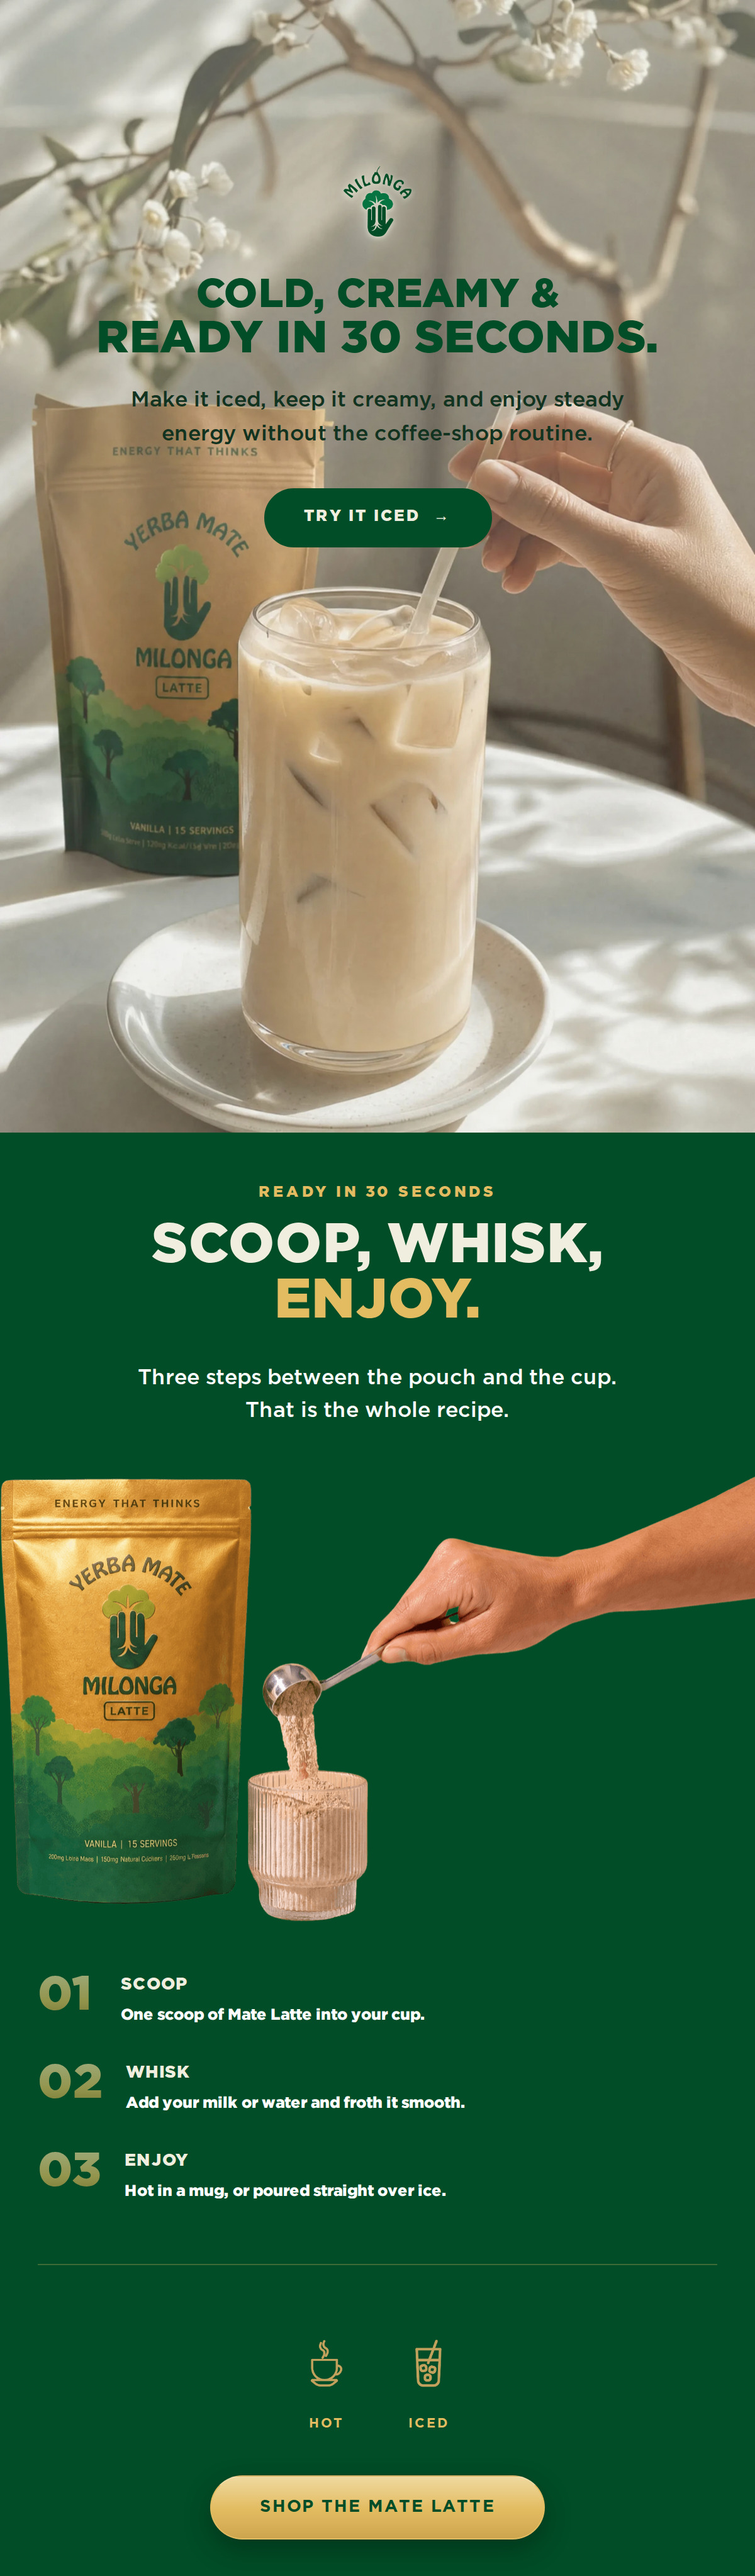
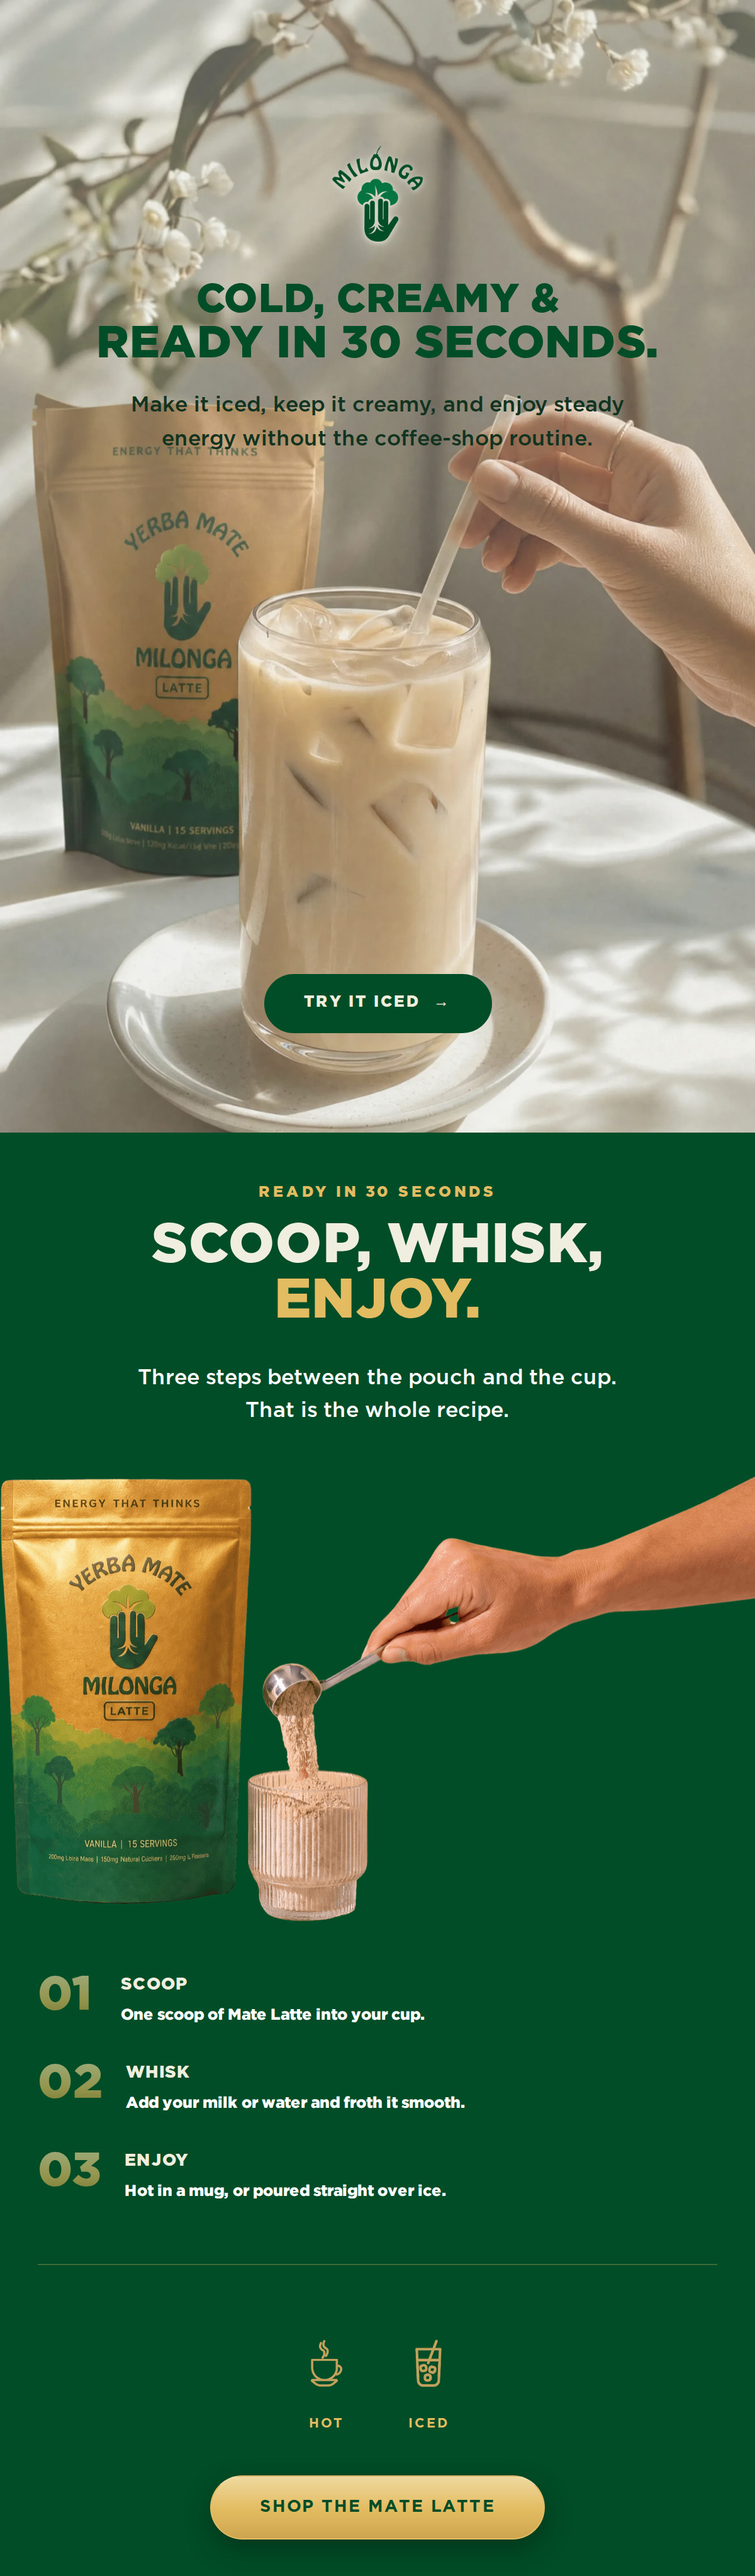
email: how-to-make-it, bigger mark, pinned button, split in two
The wordmark goes to 76 — the size the full-image opener uses, and the point
below which a mark on a photograph reads as a watermark rather than as the
brand signing the email. The title and its line move up 16 units with it.

The button is pinned at 86% instead of sitting inline. That is how this
pattern is meant to work: the mark and the words are one thing to read at the
head, the button is the one thing to do at the foot, and the photograph fills
the gap. A single clump in the middle wastes the frame.

Exported as two images, cut at y=1800 — the colour edge where the photograph
ends and the forest band begins, not at a flat row found by searching. When
an email has a hard colour boundary that boundary IS the seam: each image
then carries one flat background at its edge and the join cannot show.
Measured across the cut, row 1798 is (168,162,146) and row 1800 is (0,77,39).

Claude-Session: https://claude.ai/code/session_01NhEtXPnfeCJfN73SqBkUZ5

Changed region(s): [[0.1233, 0.062, 0.8633, 0.2171], [0.3392, 0.3723, 0.6475, 0.4033]]

diff --git a/email-ds/emails/how-to-make-it.jsx b/email-ds/emails/how-to-make-it.jsx
@@ -32,8 +32,11 @@ function HowToMakeIt() {
       alt: 'Cold, creamy and ready in 30 seconds. A tall glass of iced Milonga Mate Latte on a table in morning light, a hand stirring it with a straw, the vanilla Mate Latte pouch behind it and a branch of white blossom above. Try it iced.',
       logo: true,
       logoTone: 'green',
-      logoHeight: 56,
-      logoTop: 28,
+      // 76, the size the full-image opener uses. A wordmark on a photograph
+      // is the brand signing the email; below about 52 it reads as a
+      // watermark instead.
+      logoHeight: 76,
+      logoTop: 24,
       align: 'center',
       line1: 'Cold, creamy &',
       line2: 'ready in 30 seconds.',
@@ -41,18 +44,17 @@ function HowToMakeIt() {
       line2Color: '#004D27',
       paras: ['Make it iced, keep it creamy, and enjoy steady energy without the coffee-shop routine.'],
       cta: { label: 'Try it iced', href: '#shop', arrow: true },
-      // Inline rather than pinned near the foot. The house pattern for a
-      // full-image opener puts the button low and lets the picture fill the
-      // gap — but the lower half of THIS picture is the product, and a
-      // button centred there lands on the glass. Keeping the reading in one
-      // block hands the whole lower frame to the photograph instead.
-      ctaInline: true,
+      // Pinned low, the way the full-image opener is meant to work: the mark
+      // and the words are one thing to read at the head, the button is the
+      // one thing to do at the foot, and the photograph fills the gap
+      // between them. A single clump in the middle wastes the frame.
+      at: '86%',
       ctaAlign: 'center',
       ratio: 1.5,
       size: 32,
       size2: 36,
       titleLead: 1.02,
-      top: 132,
+      top: 116,
       padLeft: 26,
       padRight: 26,
       measure: 430,
